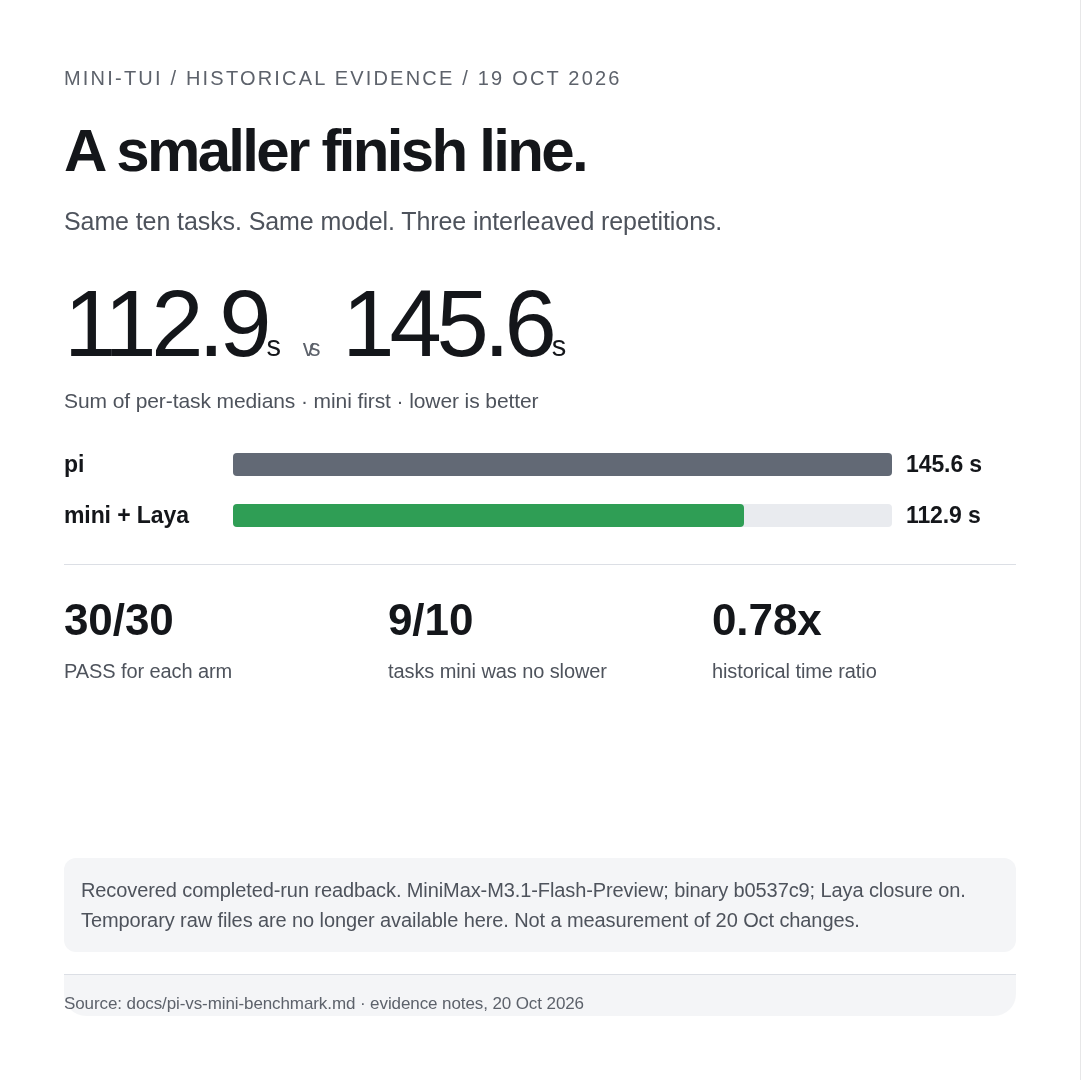
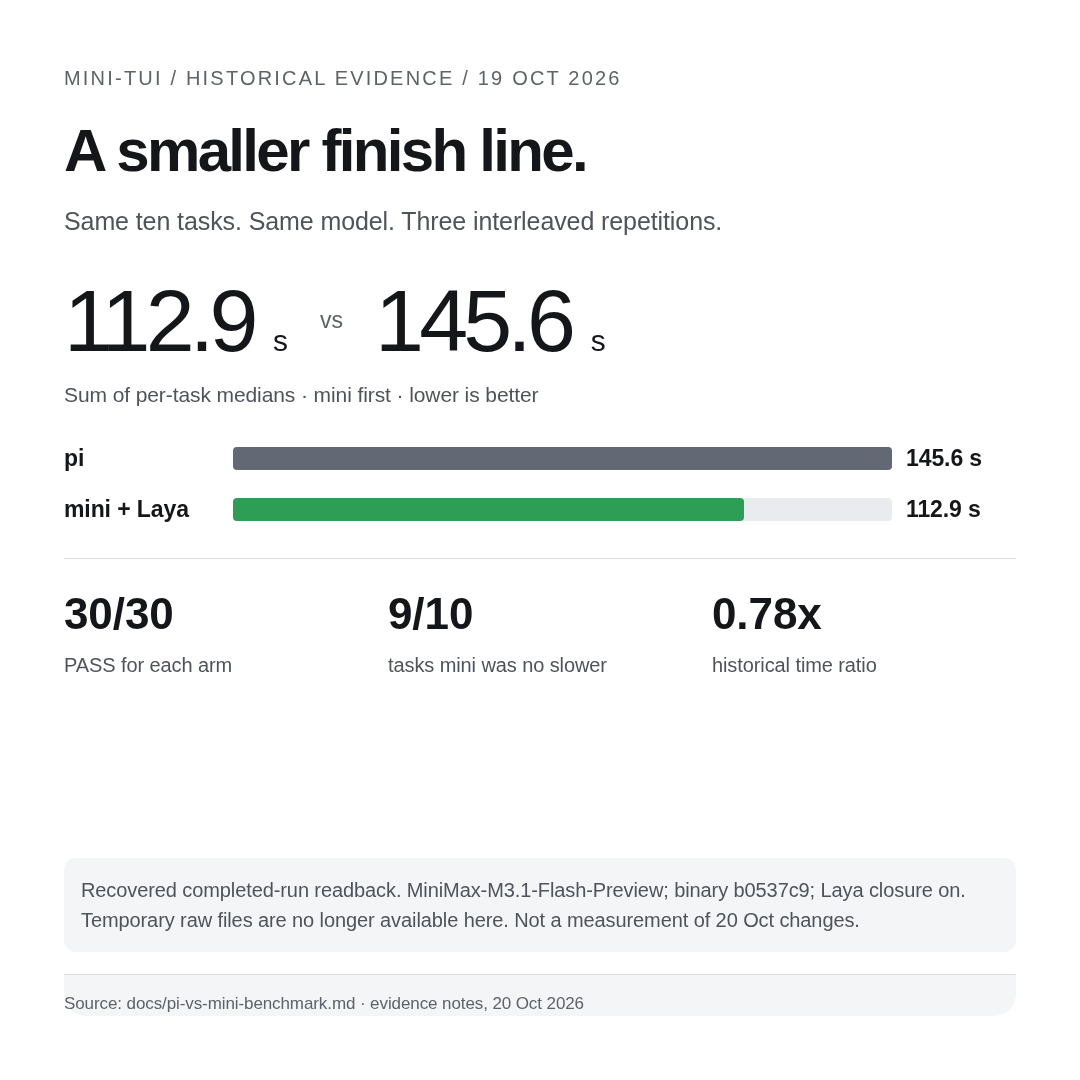
docs: give historical headline and units breathing room

diff --git a/site/src/routes/graphics/+page.svelte b/site/src/routes/graphics/+page.svelte
@@ -17,7 +17,7 @@
   <Card.Root id="historical" class="graphic">
     <Card.Header><p class="eyebrow">mini-tui / historical evidence / 19 Oct 2026</p><Card.Title class="title">A smaller finish line.</Card.Title><Card.Description class="subtitle">Same ten tasks. Same model. Three interleaved repetitions.</Card.Description></Card.Header>
     <Card.Content class="body">
-      <p class="metric">112.9<span>s</span> <span class="versus">vs</span> 145.6<span>s</span></p>
+      <div class="metric"><span class="reading">112.9 <small>s</small></span><span class="versus">vs</span><span class="reading">145.6 <small>s</small></span></div>
       <p class="muted">Sum of per-task medians · mini first · lower is better</p>
       <div class="bars">
         <div><b>pi</b><div class="track"><span style="width:100%" class="pi"></span></div><strong>145.6 s</strong></div>
@@ -56,9 +56,9 @@
 .graphic .title{font-size:44px;line-height:1.08;letter-spacing:-.045em;font-weight:600}
 .graphic .subtitle{font-size:19px;line-height:1.5;margin-top:16px;color:#4e535c}
 .graphic .body{flex:1;display:flex;flex-direction:column;padding-top:28px!important}
-.graphic .metric{font-size:64px;line-height:1;letter-spacing:-.055em;margin:8px 0 15px}
-.graphic .metric span{font-size:29px}
-.graphic .metric .versus{font-size:23px;color:#5d626b;margin:0 6px}
+.graphic .metric{display:flex;align-items:baseline;gap:24px;font-size:64px;line-height:1;letter-spacing:-.055em;margin:8px 0 15px}
+.graphic .metric .reading{font-size:inherit;white-space:nowrap}.graphic .metric small{font-size:.34em;letter-spacing:0}.graphic .metric .versus{align-self:center}
+.graphic .metric .versus{font-size:23px;color:#5d626b;letter-spacing:0}
 .graphic .muted{font-size:16px;color:#4e535c}
 .graphic .bars{display:grid;gap:18px;margin:32px 0}
 .graphic .bars>div{display:grid;grid-template-columns:110px 1fr 86px;gap:14px;align-items:center;font-size:16px}
@@ -90,8 +90,8 @@
 @media(max-width:700px){
 .graphic{aspect-ratio:auto;min-height:650px;padding:24px}
 .graphic .title{font-size:31px}
-.graphic .metric{font-size:42px}
-.graphic .metric span{font-size:22px}
+.graphic .metric{font-size:38px;gap:12px}
+.graphic .metric .versus{font-size:18px}
 .graphic .eyebrow{font-size:11px}
 .graphic .subtitle{font-size:16px}
 .graphic .stats{gap:8px}
